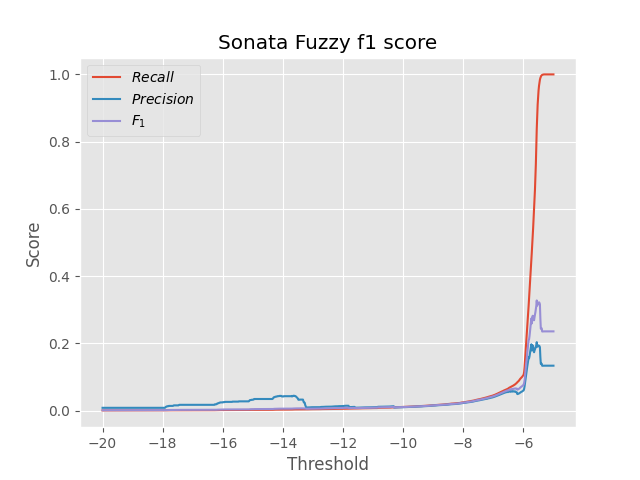
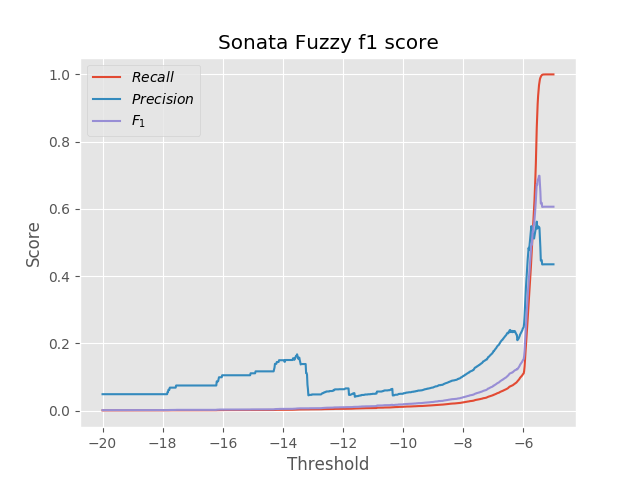
Update LDK.py

diff --git a/Utils.py b/Utils.py
@@ -1,7 +1,6 @@
 import os
 import csv
 import sys
-import Utils
 import pandas as pd # for data analytics
 import numpy as np # for numerical computation
 from matplotlib import pyplot as plt, style # for ploting
@@ -58,6 +57,9 @@ class Message:
             'flag': []
         }        
         self.path = os.path.join(CURRENT_FOLDER, "study_input", car_type)
+        self.car=car_type
+        self.attack=attack_type
+        self.filename=""
         file_list = os.listdir(self.path)
         for file in file_list:
             if attack_type in file:
@@ -157,7 +159,7 @@ class Message:
                         fbeta_score(y_pred=y_hat, y_true=valid['flag'].values, beta=1)])
 
         scores = np.array(scores)
-        print(scores[:, 2].max(), scores[:, 2].argmax(), tresholds[scores[:, 2].argmax()])
+        #print(scores[:, 2].max(), scores[:, 2].argmax(), tresholds[scores[:, 2].argmax()])
 
         plt.plot(tresholds, scores[:, 0], label='$Recall$')
         plt.plot(tresholds, scores[:, 1], label='$Precision$')
@@ -165,7 +167,9 @@ class Message:
         plt.ylabel('Score')
         plt.xlabel('Threshold')
         plt.legend(loc='best')
-        plt.show()
+        #plt.show()
+        plt.title(self.car+" "+self.attack+" f1 score")
+        plt.savefig(os.path.join(CURRENT_FOLDER,"output",self.car,self.attack+"_f1_score.png"))        
 
         final_tresh = tresholds[scores[:, 2].argmax()]
         y_hat_test = (model.logpdf(test.drop('flag', axis=1).values) < final_tresh).astype(int)
@@ -176,4 +180,4 @@ class Message:
         print('Test F1 Score: %.3f' % fbeta_score(y_pred=y_hat_test, y_true=test['flag'].values, beta=1))
 
         cnf_matrix = confusion_matrix(test['flag'].values, y_hat_test)
-        plot_confusion_matrix(cnf_matrix, classes=['Normal', 'Abnormal'], title='Confusion matrix')
+        plot_confusion_matrix(cnf_matrix, classes=['Normal', 'Abnormal'], title='Confusion matrix',car=self.car,attack=self.attack)

diff --git a/MainTraining.py b/MainTraining.py
@@ -1,9 +1,6 @@
 import os
 import csv
 import sys
-import Utils
-
-# 추가
 import pandas as pd # for data analytics
 import numpy as np # for numerical computation
 from matplotlib import pyplot as plt, style # for ploting
@@ -13,17 +10,14 @@ from sklearn.metrics import fbeta_score, precision_score, recall_score, confusio
 from scipy.stats import multivariate_normal
 import itertools
 import missingno as msno
-
-style.use('ggplot')
-np.random.seed(42) 
-
+import Utils
 
 def plot_confusion_matrix(cm, classes, normalize=False, title='Confusion matrix', cmap=plt.cm.Blues):
-    """
-    This function prints and plots the confusion matrix.
-    Normalization can be applied by setting `normalize=True`.
-    Copyed from a kernel by joparga3 https://www.kaggle.com/joparga3/kernels
-    """
+    
+    # This function prints and plots the confusion matrix.
+    # Normalization can be applied by setting `normalize=True`.
+    # Copyed from a kernel by joparga3 https://www.kaggle.com/joparga3/kernels
+    
     plt.figure()
     plt.imshow(cm, interpolation='nearest', cmap=cmap)
     plt.title(title)
@@ -172,7 +166,7 @@ def train_valid_test():
     plt.ylabel('Score')
     plt.xlabel('Threshold')
     plt.legend(loc='best')
-    plt.show()
+    #plt.show()
 
     final_tresh = tresholds[scores[:, 2].argmax()]
     y_hat_test = (model.logpdf(test.drop('flag', axis=1).values) < final_tresh).astype(int)
@@ -189,8 +183,8 @@ if __name__ == "__main__":
     # car = ["Sonata", "Soul", "Spark"]
     # attack = ["Flooding", "Fuzzy", "Malfunction"]
 
-    car_type = ["Sonata"]
-    attack_type = ["Flooding"]
+    car_type = ["Sonata","Soul"]
+    attack_type = ["Fuzzy", "Malfunction"]
     # 실제 구현으로는 아래 반복문 안에서 실행시키면 될 것
 
     for car in car_type:

diff --git a/LDK.py b/LDK.py
@@ -1,6 +1,13 @@
 from Utils import Message
 
 if __name__=='__main__':
-    msg=Message("study_input","Sonata","Fuzzy")
-    msg.read_file()
-    msg.study_and_test()
+    car_type = ["Sonata","Soul"]
+    attack_type = ["Fuzzy","Malfunction"]
+
+    for car in car_type:
+        for attack in attack_type:
+            print("[+] Start testing "+car+" "+attack)            
+            msg=Message("study_input",car,attack)
+            msg.read_file()
+            msg.study_and_test()
+            print()
